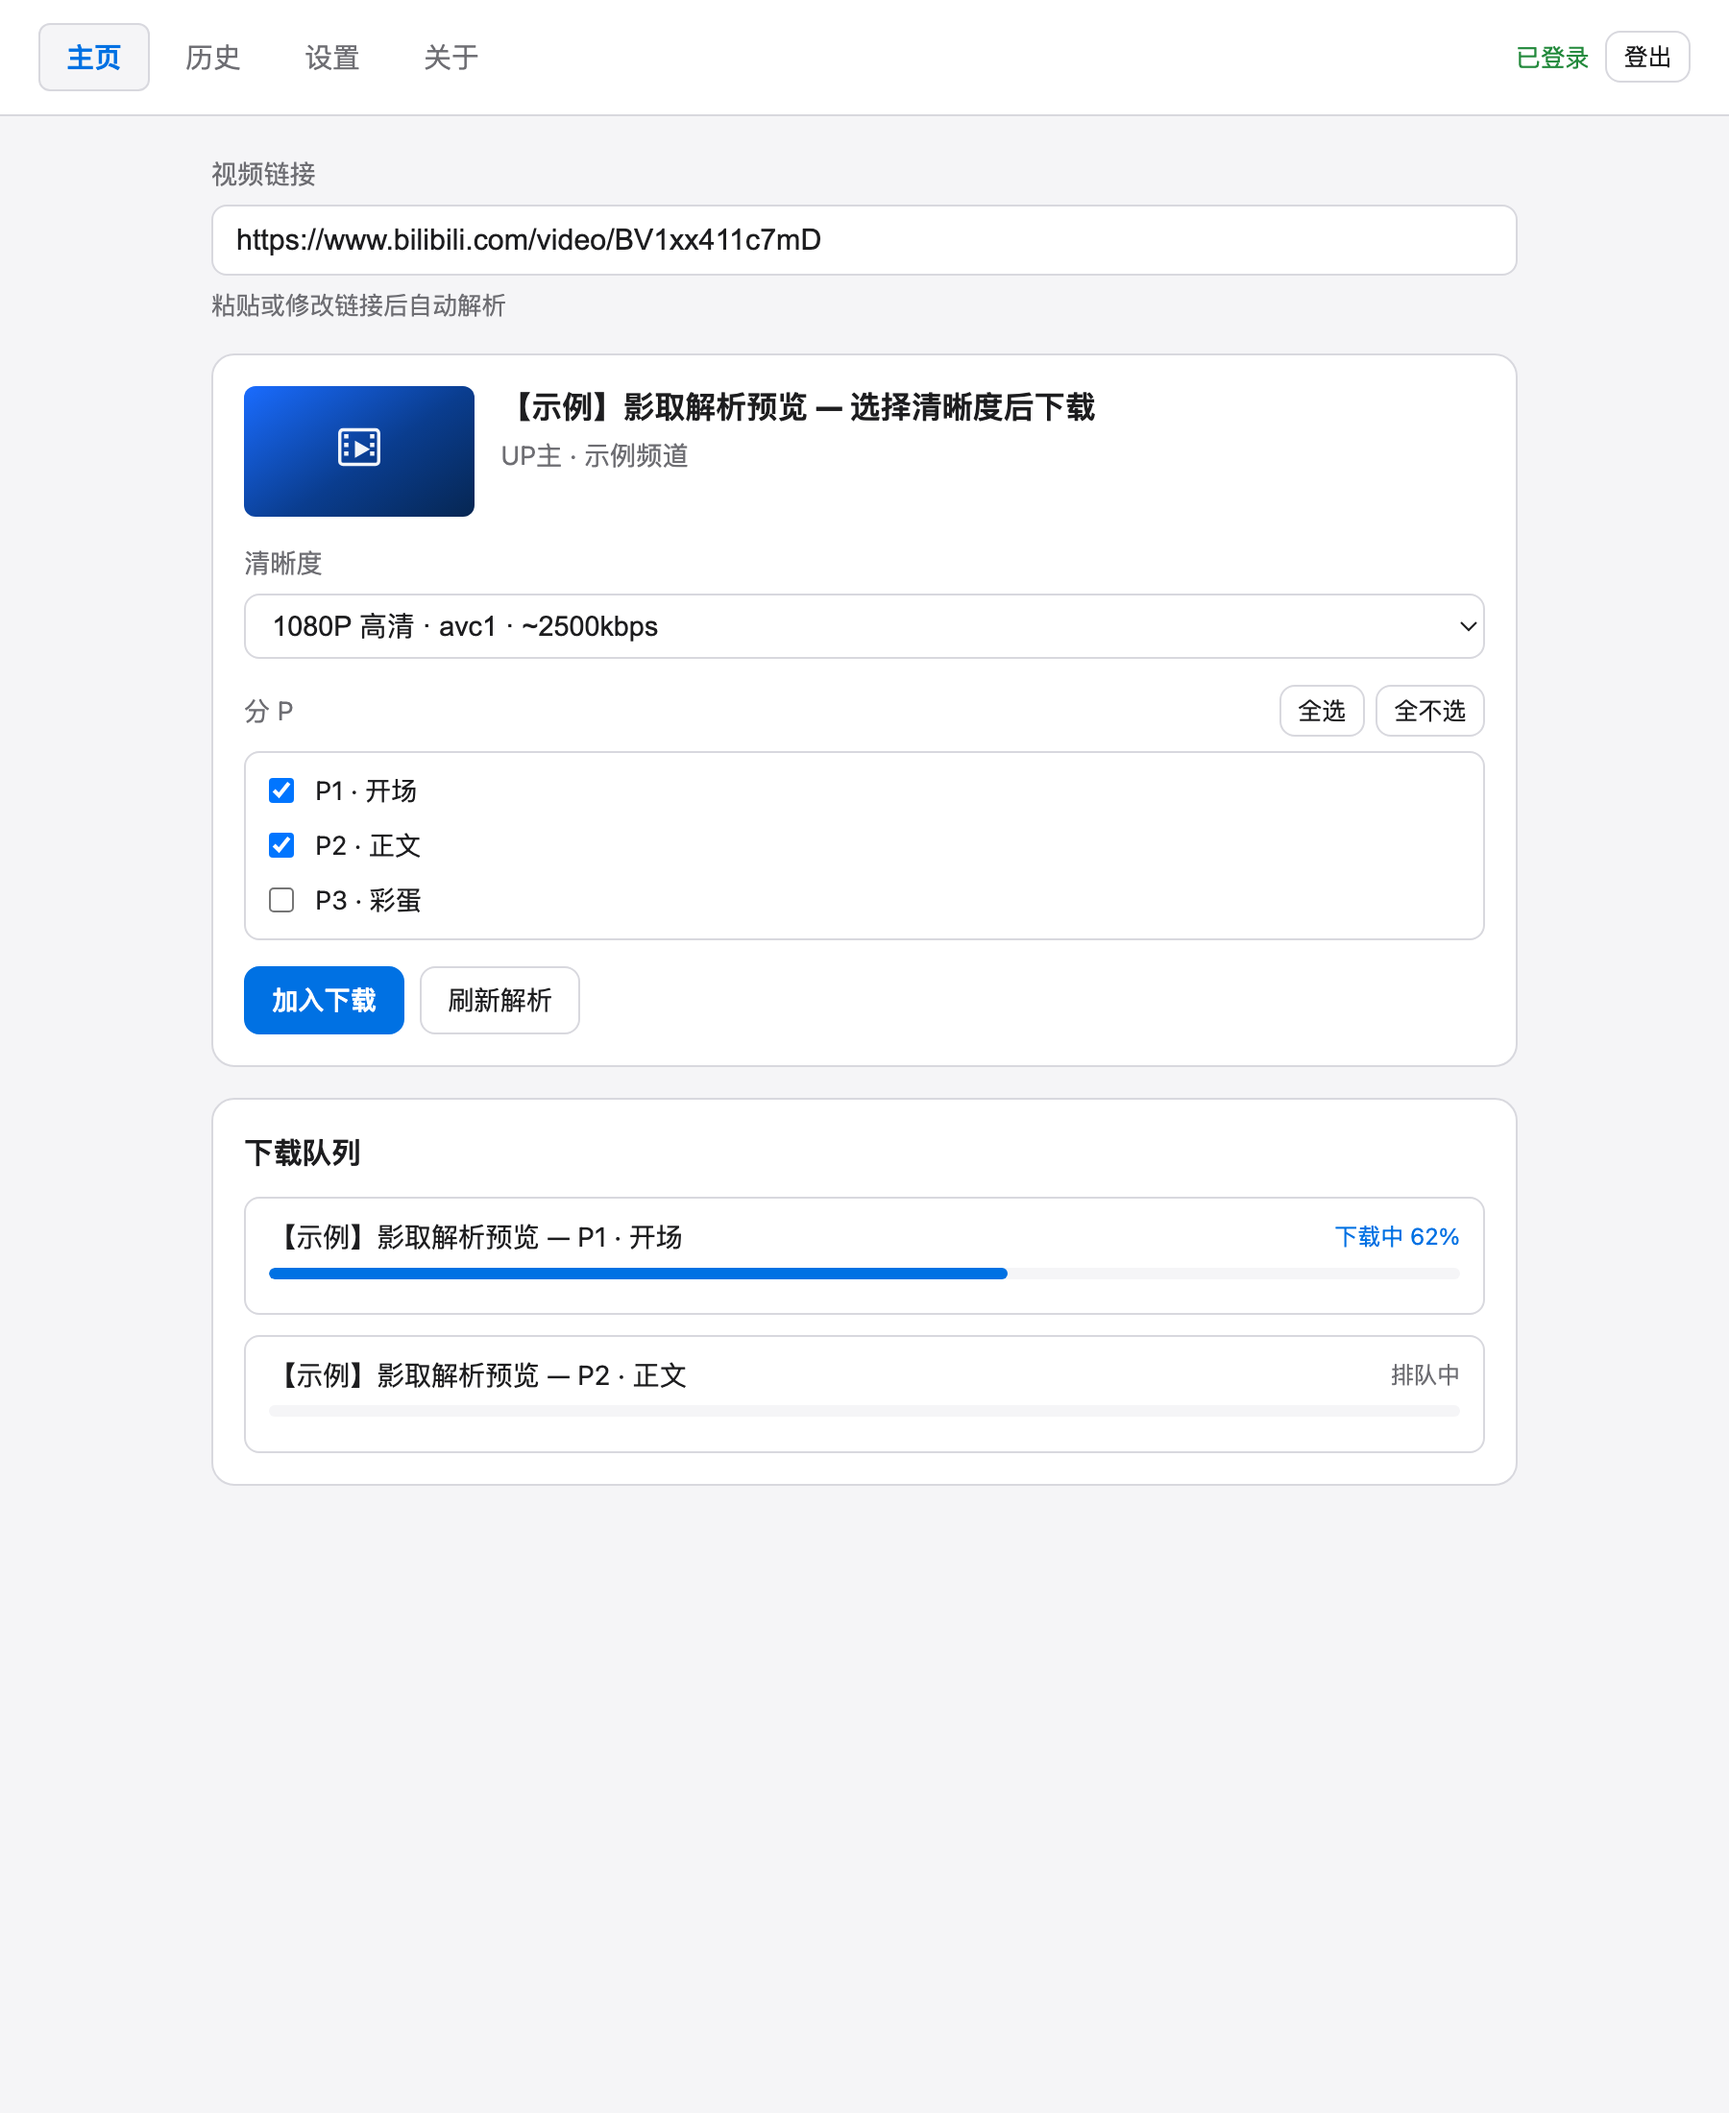
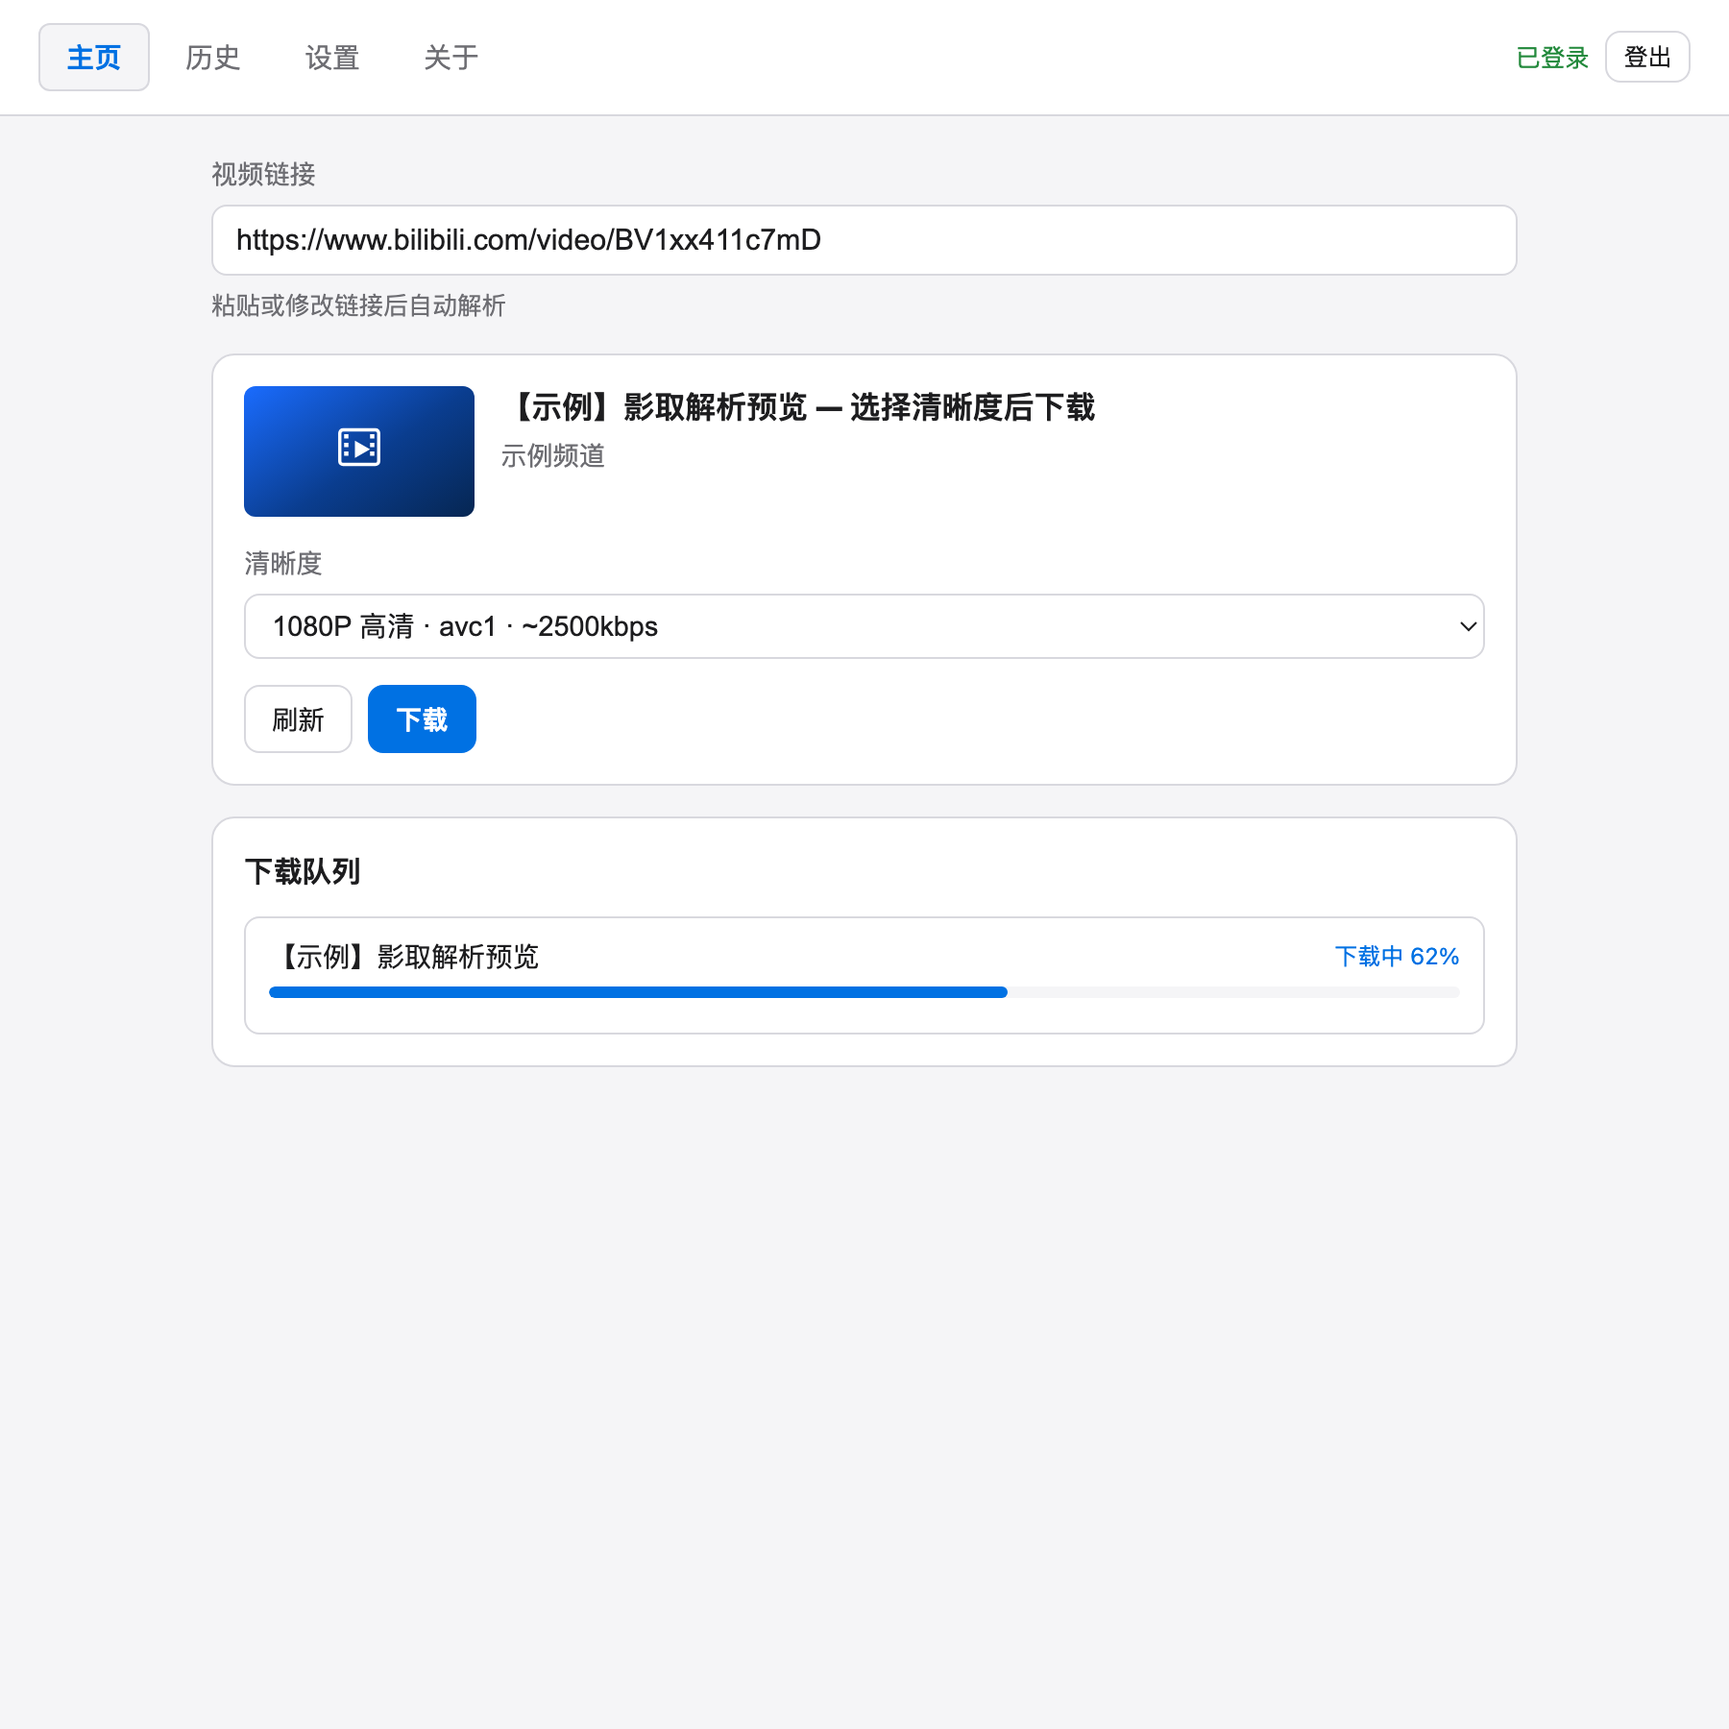
docs: fix README screenshot to match single-P home UI (#27)

diff --git a/README.md b/README.md
@@ -8,7 +8,7 @@
 轻量桌面视频下载器。当前支持哔哩哔哩（B 站）。
 
 <p align="center">
-  <img src="docs/images/home.png" alt="影取主页：粘贴链接、选择清晰度与分 P、下载队列" width="720" />
+  <img src="docs/images/home.png" alt="影取主页：粘贴链接、选择清晰度、下载队列" width="720" />
 </p>
 
 ## 快速安装
